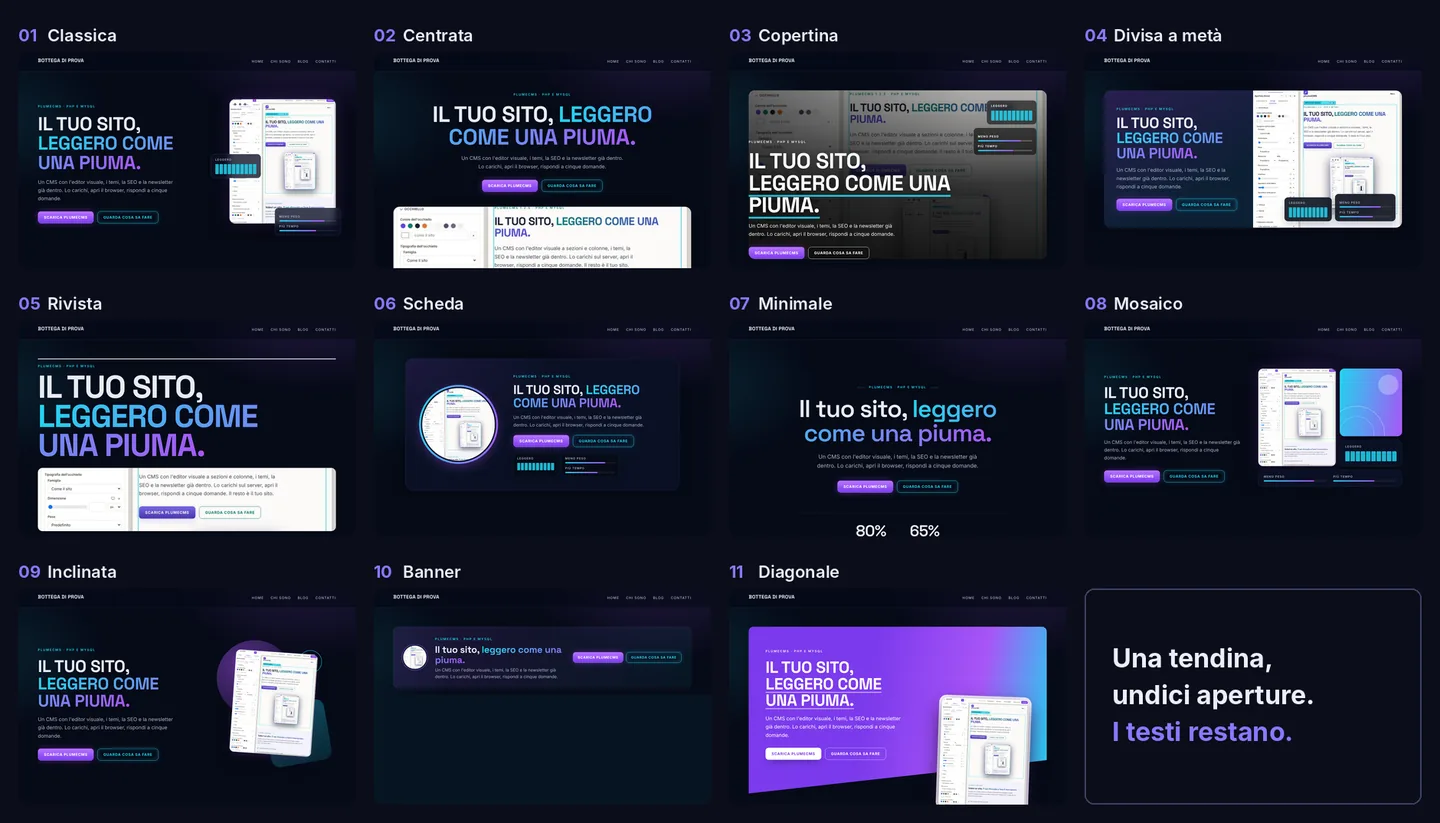
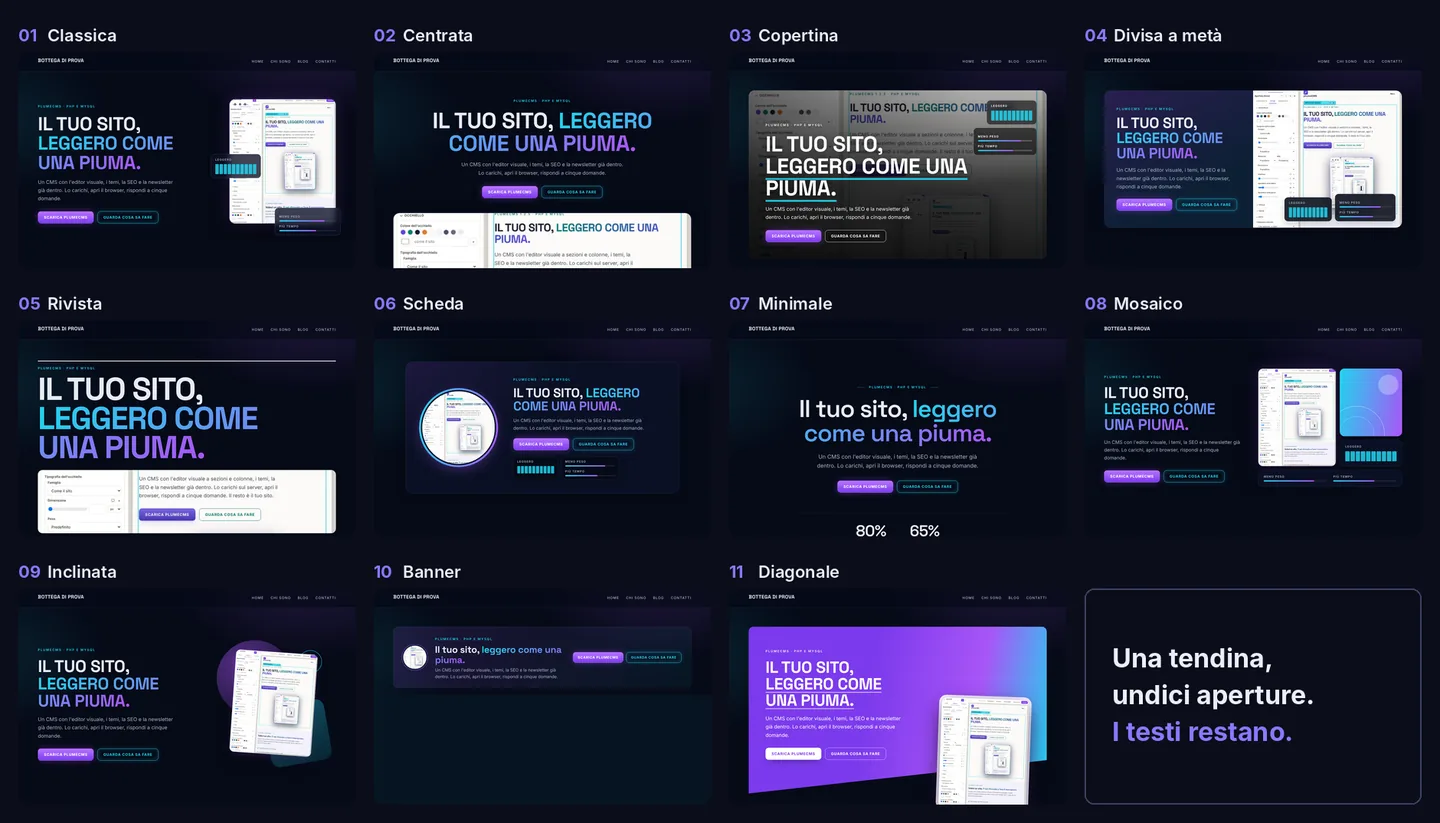
1.2.7: margine delle aperture; la home del sito di plumeCMS apre con la Copertina
Centrata, Copertina, Rivista e Scheda perdevano il margine interno contro
.ed-w-hero .hero{padding:0} di sito.css: ora le regole sul contenitore sono
.ed-hero.ed-hero-<id>. La 1.2.6 era già consegnata, quindi versione nuova.

Sito di plumeCMS: home con la Copertina (scelta di Danilo) sulla pagina Temi, con il
velo del sito e lo zoom lento; foglio delle aperture rifatto; novità 1.2.7.

Claude-Session: https://claude.ai/code/session_01Ddnix1ocLSpj3D8QhkAFuA

Changed region(s): [[0.25, 0.1215, 0.6875, 0.3341], [0.0312, 0.4253, 0.2188, 0.6683], [0.2812, 0.4557, 0.4375, 0.5772]]

diff --git a/cms/sito/assets/hero-a.css b/cms/sito/assets/hero-a.css
@@ -4,7 +4,7 @@
 .ed-hero-centrata.ed-hero-v .chip,.ed-hero-divisa.ed-hero-v .chip,.ed-hero-rivista.ed-hero-v .chip,.ed-hero-scheda.ed-hero-v .chip{background:rgba(var(--bg-rgb),.88);border:1px solid var(--bordo);color:var(--testo-2);box-shadow:0 12px 30px rgba(0,0,0,.18)}
 
 /* Centrata: parole al centro, foto larga e bassa sotto, riquadri a cavallo del bordo basso. */
-.ed-hero-centrata{text-align:center;padding:24px 0 8px}
+.ed-hero.ed-hero-centrata{text-align:center;padding:24px 0 8px}
 .ed-hero-centrata .ed-hc-parole{max-width:900px;margin:0 auto}
 .ed-hero-centrata h1{font-size:clamp(38px,6.6vw,86px);margin:20px auto 22px}
 .ed-hero-centrata p.lead{margin:0 auto 34px;max-width:640px}
@@ -18,7 +18,7 @@
 .ed-hero-centrata.ed-hero-v .chip-onda{width:190px}
 .ed-hero-centrata.ed-hero-v .chip-barre{width:250px}
 @media (max-width:760px){
-  .ed-hero-centrata{padding-top:8px}
+  .ed-hero.ed-hero-centrata{padding-top:8px}
   .ed-hero-centrata .ed-hc-scena{margin-top:36px;padding-bottom:0}
   .ed-hero-centrata.ed-hero-v .finestra.ed-hc-foto{aspect-ratio:4/3}
   .ed-hero-centrata .ed-hc-chip{position:static;margin-top:14px;gap:10px;flex-wrap:nowrap;align-items:stretch}
@@ -27,7 +27,7 @@
 }
 
 /* Copertina: la foto e lo sfondo, il velo scuro garantisce il contrasto delle parole in bianco. */
-.ed-hero-copertina{position:relative;isolation:isolate;overflow:hidden;min-height:min(78vh,760px);display:flex;flex-direction:column;justify-content:flex-end;padding:clamp(28px,5vw,72px);border-radius:calc(var(--r,18px) + 6px);background-color:var(--primario-scuro,var(--viola));background-image:radial-gradient(120% 90% at 85% 0%,rgba(var(--ciano-rgb),.35),transparent 60%),linear-gradient(160deg,rgba(var(--viola-rgb),.9),rgba(0,0,0,.35));color:#fff}
+.ed-hero.ed-hero-copertina{position:relative;isolation:isolate;overflow:hidden;min-height:min(78vh,760px);display:flex;flex-direction:column;justify-content:flex-end;padding:clamp(28px,5vw,72px);border-radius:calc(var(--r,18px) + 6px);background-color:var(--primario-scuro,var(--viola));background-image:radial-gradient(120% 90% at 85% 0%,rgba(var(--ciano-rgb),.35),transparent 60%),linear-gradient(160deg,rgba(var(--viola-rgb),.9),rgba(0,0,0,.35));color:#fff}
 .ed-hero-copertina.ed-hero-v .finestra.ed-hcop-foto{position:absolute;inset:0;z-index:-2;aspect-ratio:auto;width:auto;height:auto;border:0;border-radius:0;box-shadow:none}
 .ed-hero-copertina.ed-hero-v .finestra.ed-hcop-foto img{object-position:50% 25%}
 .ed-hero-copertina .ed-hcop-velo{position:absolute;inset:0;z-index:-1;pointer-events:none;background:linear-gradient(0deg,rgba(0,0,0,.9) 0%,rgba(0,0,0,.78) 45%,rgba(0,0,0,.45) 80%,rgba(0,0,0,.3) 100%),linear-gradient(90deg,rgba(0,0,0,.45) 0%,rgba(0,0,0,0) 75%)}
@@ -43,7 +43,7 @@
 .ed-hero-copertina.ed-hero-v .chip-barre{width:240px}
 .ed-hero-copertina .barra div{background:rgba(255,255,255,.22)}
 @media (max-width:860px){
-  .ed-hero-copertina{min-height:min(86vh,720px);padding:24px 20px 28px}
+  .ed-hero.ed-hero-copertina{min-height:min(86vh,720px);padding:24px 20px 28px}
   .ed-hero-copertina .ed-hcop-chip{display:none}
   .ed-hero-copertina p.lead{font-size:17px}
   .ed-hero-copertina h1{font-size:clamp(32px,9vw,44px)}
@@ -71,7 +71,7 @@
 }
 
 /* Rivista: impaginazione editoriale, titolo enorme fra due filetti, foto a nastro, due colonne sotto. */
-.ed-hero-rivista{text-align:left;padding:8px 0}
+.ed-hero.ed-hero-rivista{text-align:left;padding:8px 0}
 .ed-hero-rivista .ed-hr-testa{border-top:3px solid var(--testo);padding-top:20px}
 .ed-hero-rivista .occhiello{display:block}
 .ed-hero-rivista h1{font-size:clamp(44px,9.4vw,136px);line-height:.92;letter-spacing:-.03em;margin:18px 0 30px;max-width:none;text-wrap:balance}
@@ -91,7 +91,7 @@
 }
 
 /* Scheda: tutto in un riquadro, ritratto rotondo con l'anello di colore. */
-.ed-hero-scheda{padding:12px 0}
+.ed-hero.ed-hero-scheda{padding:12px 0}
 .ed-hero-scheda .ed-hs-riquadro{display:grid;grid-template-columns:minmax(200px,300px) 1fr;gap:clamp(28px,4.5vw,60px);align-items:center;max-width:1040px;margin:0 auto;padding:clamp(28px,4vw,52px);border:1px solid var(--bordo);border-radius:calc(var(--r,18px) + 10px);background-color:var(--bg-2);background-image:radial-gradient(90% 120% at 0% 0%,rgba(var(--viola-rgb),.12),transparent 60%);box-shadow:0 1px 2px rgba(0,0,0,.06),0 18px 48px rgba(0,0,0,.14)}
 .ed-hero-scheda .ed-hs-riquadro.ed-hs-senza-foto{grid-template-columns:1fr}
 .ed-hero-scheda .ed-hs-anello{padding:7px;border-radius:50%;background:var(--grad);box-shadow:0 14px 40px rgba(var(--viola-rgb),.28)}

diff --git a/prove/prova-sito-plumecms.js b/prove/prova-sito-plumecms.js
@@ -60,7 +60,8 @@ const statoPacchetto = (nome) => {
   const voci = (await v.locator('header nav a').allInnerTexts()).map(s => s.trim()).filter(Boolean);
   ok('menu: Home, Funzionalità, Temi, Documentazione, Installazione, Scarica', ['Home', 'Funzionalità', 'Temi', 'Documentazione', 'Installazione'].every(x => voci.some(y => y.toLowerCase() === x.toLowerCase())) && voci.some(y => /scarica/i.test(y)), voci);
   ok("l'onda non c'è nella home", await v.locator('.chip-onda').count() === 0);
-  ok('la foto della home è naturale, con la cornice', await v.locator('.finestra.ed-foto-naturale.ed-fx-cornice').count() === 1);
+  // Dalla 1.2.6 la home apre con la Copertina: la pagina Temi a tutto sfondo, con il velo del sito e lo zoom lento.
+  ok('la home apre con la Copertina, foto a tutto sfondo con il velo e lo zoom', await v.locator('.ed-hero-copertina .finestra.ed-fx-zoom:not(.ed-foto-naturale) img[src*="temi.webp"]').count() === 1);
   const imgRotte = await v.evaluate(() => [...document.images].filter(i => i.complete && i.naturalWidth === 0).map(i => i.src));
   ok('nessuna immagine rotta nella home', imgRotte.length === 0, imgRotte);
   await v.goto(B + '/funzionalita/', { waitUntil: 'networkidle' });

diff --git a/sito-plumecms/costruisci.py b/sito-plumecms/costruisci.py
@@ -111,15 +111,15 @@ def tinta():
 # ------------------------------------------------------------------ le pagine
 def home():
     p = Pagina('home')
-    p.sezione([[w('hero',
+    p.sezione([[w('hero', disposizione='copertina',
                   occhiello=f'plumeCMS {VU} · PHP e MySQL',
                   titolo='Il tuo sito, *leggero come una piuma.*',
                   testo='Un CMS con l\'editor visuale a sezioni e colonne, i temi, la SEO e la newsletter già dentro. '
                         'Lo carichi sul server, apri il browser, rispondi a cinque domande. Il resto è il tuo sito.',
                   pulsanti=[{'testo': 'Scarica plumeCMS', 'link': '/scarica/', 'stile': 'viola'},
                             {'testo': 'Guarda cosa sa fare', 'link': '/funzionalita/', 'stile': 'filo'}],
-                  immagine=U + 'editor-ritratto.webp', onda_mostra=False, etichetta_onda='', barre=[],
-                  foto_trattamento='naturale', foto_effetto='cornice')]], **spazi(64, 72))
+                  immagine=U + 'temi.webp', onda_mostra=False, etichetta_onda='', barre=[],
+                  foto_effetto='zoom')]], **spazi(64, 72))
     # Il mondo di prima: il problema in cui ci si riconosce.
     p.sezione([(45, [titolo('Volevi un sito. *Ti sei ritrovato a fare il meccanico.*', 'Ti suona familiare?',
                             'Si parte con un\'idea chiara e si finisce la domenica pomeriggio a capire perché un aggiornamento '
@@ -489,6 +489,7 @@ def zip_lavagna(dest):
 
 # Le novità per chi scarica: brevi, scritte qui (il CHANGELOG è per chi sviluppa). Da aggiornare a ogni versione.
 NOVITA = [
+    ('1.2.7', 'Aperture con il loro respiro', ['Copertina, Centrata, Rivista e Scheda ritrovano il margine interno: il testo non tocca più il bordo.']),
     ('1.2.6', 'Undici aperture', ['L\'apertura delle pagine si sceglie fra undici disposizioni: centrata, a tutto sfondo, divisa, rivista, scheda, minimale, mosaico, inclinata, banner, diagonale e la classica.',
                                 'Cambi disposizione con una tendina e i testi restano dove sono.']),
     ('1.2.5', 'Sempre l\'ultima versione', ['Un file con la versione nel nome ha un indirizzo che porta sempre alla versione più recente.',

diff --git a/CLAUDE.md b/CLAUDE.md
@@ -85,7 +85,7 @@ Stato, decisioni, contesto e diario non stanno qui: stanno nel second brain
 - **Pacchetto di aggiornamento** per un'installazione esistente:
   `python3 tools/cms-pacchetto.py --aggiornamento`. Si carica dal pannello,
   Impostazioni, Aggiornamenti.
-- **Versione**: `cms/VERSIONE` (oggi 1.2.6) e una voce in `cms/CHANGELOG.md` a ogni
+- **Versione**: `cms/VERSIONE` (oggi 1.2.7) e una voce in `cms/CHANGELOG.md` a ogni
   zip con contenuto diverso. Mai cambiare il contenuto di una versione già data.
 - **Prove** prima di dire finito:
   - `php -n -d short_open_tag=1 -l` su ogni file PHP toccato, `node --check` sui js;
@@ -121,7 +121,7 @@ Le decisioni complete, con data e perché, stanno nel second brain, `plumecms/de
 
 ## Stato al 27 ottobre 2026
 
-Fatto: plumeCMS 1.2.6: tendina Disposizione dell'Apertura, dieci disposizioni nuove più la classica (identica al pixel
+Fatto: plumeCMS 1.2.7: margine di Centrata, Copertina, Rivista e Scheda; la home del sito di plumeCMS apre con la Copertina (scelta di Danilo). 1.2.6: tendina Disposizione dell'Apertura, dieci disposizioni nuove più la classica (identica al pixel
 alla 1.2.5), `prove/prova-hero.js` 154 su 154 con base, Cosmo, Aria e Bottega, anche senza foto. 1.2.5: serie nel download manager (`/scarica/<nome>-ultima/`, `{versione:<serie>}` nei testi), il sito di
 plumeCMS segue da solo l'ultima versione caricata; messaggi chiari per i temi con PHP. 1.2.4: download manager (pannello Download, widget Download, conteggio senza robot; `prove/prova-download.js`
 27 su 27). 1.2.3: manuali in PDF, `/scarica/<nome>/`, pacchetti con pagine, stile e impostazioni, il sito di plumeCMS
@@ -135,7 +135,7 @@ sottocartella; aggiornamento 1.1.9 -> 1.2.0 dal pannello provato con sito identi
 78 prove di attacco respinte (la 79esima è del modulo danilofailli). Le prove del CMS girano su PHP 8.3 con
 MySQL 8.0: su PHP 8.4.27 sono provate la sintassi di ogni file e i `.htaccess` su Apache, non il CMS intero
 (senza `pdo_mysql` nell'immagine, e i pacchetti Debian bloccati dalla rete della sessione).
-Prima installazione vera su `https://duhtron.it/test` (cartella), funzionante con la 1.1.9: da aggiornare alla 1.2.6.
+Prima installazione vera su `https://duhtron.it/test` (cartella), funzionante con la 1.1.9: da aggiornare alla 1.2.7.
 Dal 27 ottobre plumeCMS vive nel suo progetto e repository (`SPOSTARE.md`).
 
 Aperto:
@@ -151,7 +151,6 @@ Aperto:
 - favicon di partenza (l'installazione pulita risponde 404 su `/favicon.ico`);
 - `vista_404()` del nucleo punta a `/blog-fuori-del-coso/` (resto di danilofailli.it), da rendere neutro;
 - i temi a danilofailli.it arrivano solo con un pacchetto `--sito` dal suo repository (mai lo zip del prodotto).
-- Danilo sceglie la disposizione dell'Apertura per la home del sito di plumeCMS (oggi classica, `home()` in `costruisci.py`);
 - la licenza di plumeCMS non è scritta da nessuna parte: il sito di plumeCMS offre il download senza dire a quali condizioni;
 - la 1.2.3 (menu per posizione, pannello Revisioni, sfondo colore delle sezioni, `/scarica/`, voci nuove dei pacchetti) e la
   1.2.4 (download manager) vanno riportate su danilofailli.it, come la 1.2.2;
@@ -205,6 +204,7 @@ Errori veri, già pagati. Non ripeterli.
 | Un valore di un controllo "scelta" che non sta fra le sue opzioni | `editor_valida` lo svuota in silenzio: un header importato con il menu `posizione:principale` usciva senza menu (prima della 1.2.3), e il widget Download importato dalla parte 1 del sito perdeva i file che arrivano con le parti dopo (1.2.4). Una tendina i cui valori possono non esistere ancora dichiara `'accetta' => regex` |
 | Un pacchetto più grande del limite di caricamento del server | "Il file supera il limite di caricamento del server": il pacchetto unico del sito di plumeCMS (5 MB) è stato rifiutato dal primo hosting vero (27 ottobre 2026), che accetta 1,2 MB. Ora il costruttore lo divide in parti sotto 1900 KB (il predefinito di PHP è 2M). Anche i PDF: con i tag di accessibilità e Inter variabile pesavano il doppio |
 | `editor_widget_registrati()` per sapere quali fogli caricare | dà solo i widget esterni, non quelli del nucleo: l'anteprima dell'editor non caricava i fogli delle disposizioni dell'Apertura e le mostrava senza stile (1.2.6, trovato dalla prova dell'editor, non da quella del sito). E le viste mettono ogni `<link>` davanti al precedente: l'ordine dei fogli di un widget si capovolge se non lo si dà al contrario |
+| Una regola di un foglio nuovo con un solo nome di classe (`.ed-hero-copertina{padding:...}`) | perde contro `.ed-w-hero .hero{padding:0}` di `sito.css`: nella 1.2.6 testo e pulsanti della Copertina toccavano il bordo, e nessuna prova lo vedeva (passavano tutte). Le regole sul contenitore di una disposizione si scrivono `.ed-hero.ed-hero-<id>`; le foto si guardano anche sul sito vero, non solo sulla pagina di prova |
 | Fidarsi del resoconto di un agente | è successo che un agente dichiarasse lavoro mai scritto su disco. Si controllano i file veri e si rifanno le prove |
 
 ## Tono con l'utente

diff --git a/cms/docs/manuale-tecnico.md b/cms/docs/manuale-tecnico.md
@@ -1,6 +1,6 @@
 # plumeCMS: manuale tecnico
 
-Versione del manuale: 1.5, per plumeCMS 1.2.6 (27 ottobre 2026).
+Versione del manuale: 1.5, per plumeCMS 1.2.7 (27 ottobre 2026).
 
 Questo manuale descrive come è fatto plumeCMS e come funziona, pezzo per pezzo. È scritto leggendo il codice:
 ogni numero, limite e nome di funzione viene dai file veri, con il riferimento `file:riga` quando serve a chi
@@ -63,7 +63,7 @@ Niente librerie esterne: SortableJS e Quill sono serviti dal CMS stesso, le icon
 index.php           front controller: tutte le richieste del sito passano da qui
 cron-daily.php      compiti del giorno (pacchetti programmati, moduli, IndexNow)
 cron-newsletter.php invio della newsletter a giri, coda IndexNow
-VERSIONE            il numero di versione (oggi 1.2.6)
+VERSIONE            il numero di versione (oggi 1.2.7)
 CHANGELOG.md, README.md, INSTALLA.md
 .htaccess           regole di Apache (copia di install/esempi/htaccess-radice.txt)
 
@@ -741,7 +741,9 @@ Come è fatto (`includes/editor-hero.php`):
   (`.occhiello`, `.lead`, `.azioni`, `.btn`, `.chip`): i colori, i caratteri e i controlli della scheda Stile valgono
   anche per lei;
 - il CSS è in `sito/assets/hero-base.css`, `hero-a.css`, `hero-b.css`, ogni regola sotto `.ed-hero-<id>`, colori solo
-  dalle variabili del sito (quindi segue i temi chiari e scuri); si carica solo nelle pagine con un'Apertura.
+  dalle variabili del sito (quindi segue i temi chiari e scuri); si carica solo nelle pagine con un'Apertura;
+- le regole sul contenitore si scrivono `.ed-hero.ed-hero-<id>`: `sito.css` ha `.ed-w-hero .hero{padding:0}`, che con
+  un solo nome di classe vince e toglie il margine (successo nella 1.2.6, corretto nella 1.2.7).
 
 **Infografiche** (14, prefisso `ig_`): passi, timeline, checklist, tabella, liste, numeri, card, mappa, flusso,
 fasi, barre, prima e dopo, zone, domande. Usano i colori `--ig-*` della tavolozza (capitolo 12).

diff --git a/cms/CHANGELOG.md b/cms/CHANGELOG.md
@@ -2,6 +2,12 @@
 
 Il prodotto si chiama **plumeCMS** (nome scelto il 26 ottobre 2026; prima, per poche ore, "CarbonaraCMS", e ancora prima il provvisorio "Officina": gli zip vecchi si chiamavano `officina-*` e `carbonaracms-*`).
 
+## 1.2.7 (27 ottobre 2026) - Il margine delle aperture
+
+- **Apertura**: Centrata, Copertina, Rivista e Scheda ritrovano il loro margine interno. Nella 1.2.6 una regola del
+  foglio del sito lo azzerava: nella Copertina testo e pulsanti toccavano il bordo del riquadro.
+- Le altre sette disposizioni non cambiano.
+
 ## 1.2.6 (27 ottobre 2026) - Undici aperture
 
 - **Apertura (hero), tendina Disposizione**: oltre alla classica, dieci disposizioni nuove. Centrata, Copertina (foto a
